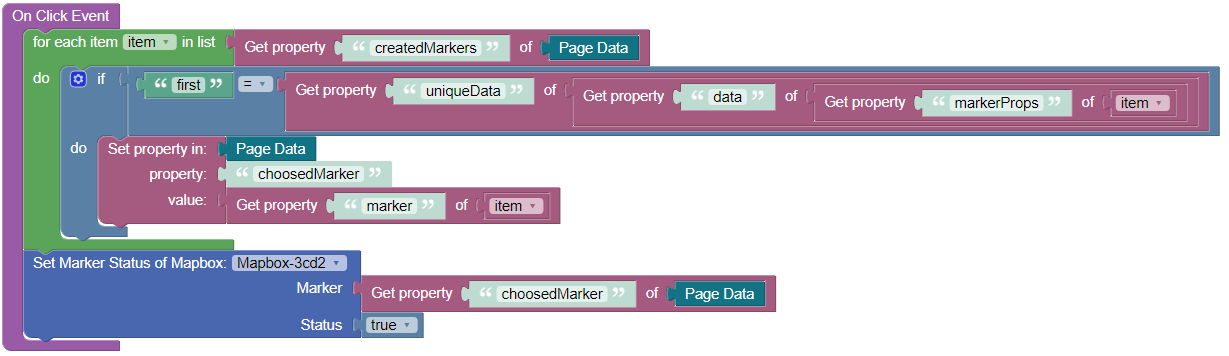
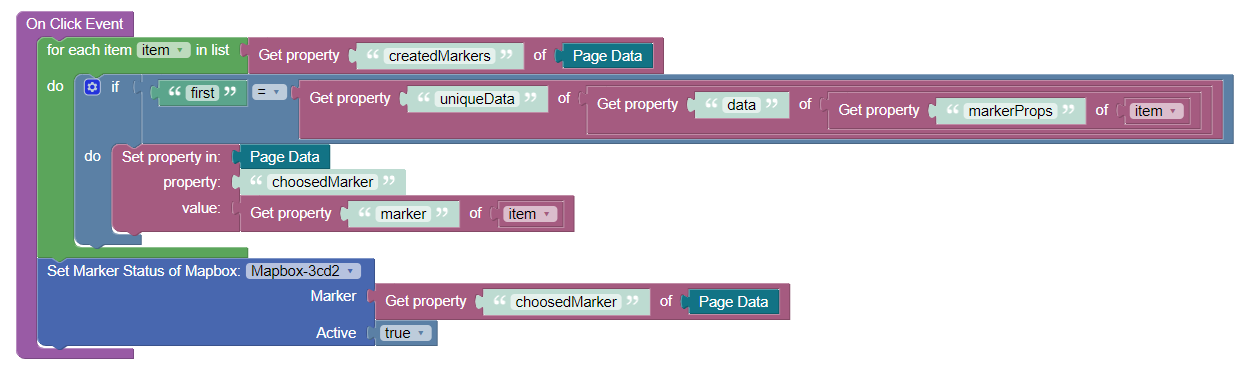
fixed issues, updated setMarkerStatus action and README.md

Changed region(s): [[0.0, 0.0, 1.0, 0.9888]]

diff --git a/components/bl-mapbox/src/helpers.js b/components/bl-mapbox/src/helpers.js
@@ -126,6 +126,14 @@ const appendDirectionsOnMobile = (directions, mapRef, mapContainerRef) => {
   mapContainerRef.current.parentNode.insertAdjacentElement('afterend', div);
 };
 
+export const isMapWidthChanged = (mapRef, isMapLoaded) => {
+  useEffect(() => {
+    if (isMapLoaded) {
+      console.log('width changed to ', mapRef?.current?.transform?.width);
+    }
+  }, [mapRef?.current?.transform?.width, isMapLoaded])
+}
+
 export const initMapboxLibrary = (mapRef, mapContainerRef, component, eventHandlers, map) => {
   const { START_POS, MAP_STYLE, ZOOM, PROJECTION } = defaultMapboxProps;
   const { mapStyle, center, zoom, projection, directions, fullScreen, navigation, searchBar, geolocation } = component;
@@ -179,12 +187,12 @@ export const initMapboxLibrary = (mapRef, mapContainerRef, component, eventHandl
 export const useMarkers = (markers, mapRef, eventHandlers) => {
   const { onMarkerClick, onMarkersCreated } = eventHandlers;
   const markerElements = useRef();
-  const collectedMarkerData = useRef([]);
+  const collectedMarkerData = [];
 
   useEffect(() => {
     removeMarkers(markerElements.current);
 
-    collectedMarkerData.current = [];
+    collectedMarkerData.length = 0;
 
     if (markers?.length) {
       markerElements.current = markers.map(markerItem => {
@@ -209,21 +217,21 @@ export const useMarkers = (markers, mapRef, eventHandlers) => {
         }
 
         popup.on('close', () => {
-          changeMarkerColor(marker);
+          changeMarkerColor(marker, false);
         });
 
         marker.setPopup(popup);
 
-        collectedMarkerData.current.push({
+        collectedMarkerData.push({
           marker,
           markerProps: markerItem,
-        });
+        })
 
         return marker;
       });
     }
 
-    onMarkersCreated({ markers: collectedMarkerData.current });
+    onMarkersCreated({markers: collectedMarkerData});
   }, [markers]);
 };
 
@@ -237,13 +245,11 @@ const removeMarkers = markers => {
 
 export const changeMarkerColor = (marker, status) => {
   const element = marker?.getElement();
-
-  if (element && status) {
-    element.classList.add('marker-root--active');
-  } else if (element) {
-    element.classList.remove('marker-root--active');
+  if (element) {
+    element?.classList.toggle('marker-root--active', status);
   }
 };
+
 
 const updatePolygonsArray = (polygons, mapRef, polygonsArray, setPolygonsArray, map) => {
   polygonsArray.forEach(polygon => {

diff --git a/components/bl-mapbox/src/actions.js b/components/bl-mapbox/src/actions.js
@@ -20,6 +20,6 @@ export function createActions(mapRef, component) {
     setZoom        : (zoom, eventData) => map?.setZoom(zoom, eventData),
     flyTo          : (options, eventData) => map?.flyTo(options, eventData),
     rotateTo       : (bearing, options, eventData) => map?.rotateTo(bearing, options, eventData),
-    setMarkerStatus: (marker, status) => changeMarkerColor(marker, status),
+    setMarkerStatus: (marker, active) => changeMarkerColor(marker, active),
   });
 }

diff --git a/components/bl-mapbox/README.md b/components/bl-mapbox/README.md
@@ -60,7 +60,7 @@ The component covers basic features of the library and allows you in a couple cl
 | Set Zoom to Mapbox          | Zoom: `Number` <br/> Event Data: `Object`                                   |                                        |
 | Fly To Mapbox               | Options: `Object` <br/> Event Data: `Object`                                |                                        |
 | Rotate To Mapbox            | Bearing: `Number` <br/> Options: `Object` <br/> Event Data: `Object`        |                                        |
-| Set Marker Status of Mapbox | Marker: `Object` <br/> Status: `Boolean`                                    |                                        |
+| Set Marker Status of Mapbox | Marker: `Object` <br/> Active: `Boolean`                                    |                                        |
 
 ## Settings
 
@@ -140,7 +140,7 @@ Find marker:
 
 Highlight marker:
 ````
-<block xmlns="http://www.w3.org/1999/xhtml" type="ui_custom_component__c_4d14629c33bdf5b6b50ffd72e25e5ca2__setMarkerStatus" id="kV$uZ59!CoYa,cmY}yY@" bl_meta="{&quot;label&quot;:&quot;Mapbox Component Action - Set Marker Status of&quot;}" x="322.99999999999983" y="433.99999999999983"><field name="componentUid">'bdc238e58125d0cefb0b46a1d0aa33f8'</field><value name="marker"><block type="get_object_property" id=";XBjL%3Nhy?S`x/l%@c="><value name="prop_name"><shadow type="text" id="p,})::1`zjIynH(xcNNN"><field name="TEXT">choosedMarker</field></shadow></value><value name="object"><block type="root_block_ui_builder_common__context_blocks_pageData" id="2##UwV%Jb=pG).x+`i}J" bl_meta="{&quot;label&quot;:&quot;Page Data&quot;}"></block></value></block></value><value name="status"><block type="logic_boolean" id="1QhK`w{4?4kcvHx1r9sU"><field name="BOOL">TRUE</field></block></value></block>
+<block xmlns="http://www.w3.org/1999/xhtml" type="ui_custom_component__c_4d14629c33bdf5b6b50ffd72e25e5ca2__setMarkerStatus" id="kV$uZ59!CoYa,cmY}yY@" bl_meta="{&quot;label&quot;:&quot;Mapbox Component Action - Set Marker Status of&quot;}" x="41" y="297"><field name="componentUid">'bdc238e58125d0cefb0b46a1d0aa33f8'</field><value name="marker"><block type="get_object_property" id=";XBjL%3Nhy?S`x/l%@c="><value name="prop_name"><shadow type="text" id="p,})::1`zjIynH(xcNNN"><field name="TEXT">choosedMarker</field></shadow></value><value name="object"><block type="root_block_ui_builder_common__context_blocks_pageData" id="2##UwV%Jb=pG).x+`i}J" bl_meta="{&quot;label&quot;:&quot;Page Data&quot;}"></block></value></block></value><value name="active"><block type="logic_boolean" id="+LtfodZvb$X,Au!lr5RL"><field name="BOOL">TRUE</field></block></value></block>
 ````
 
 </details>
